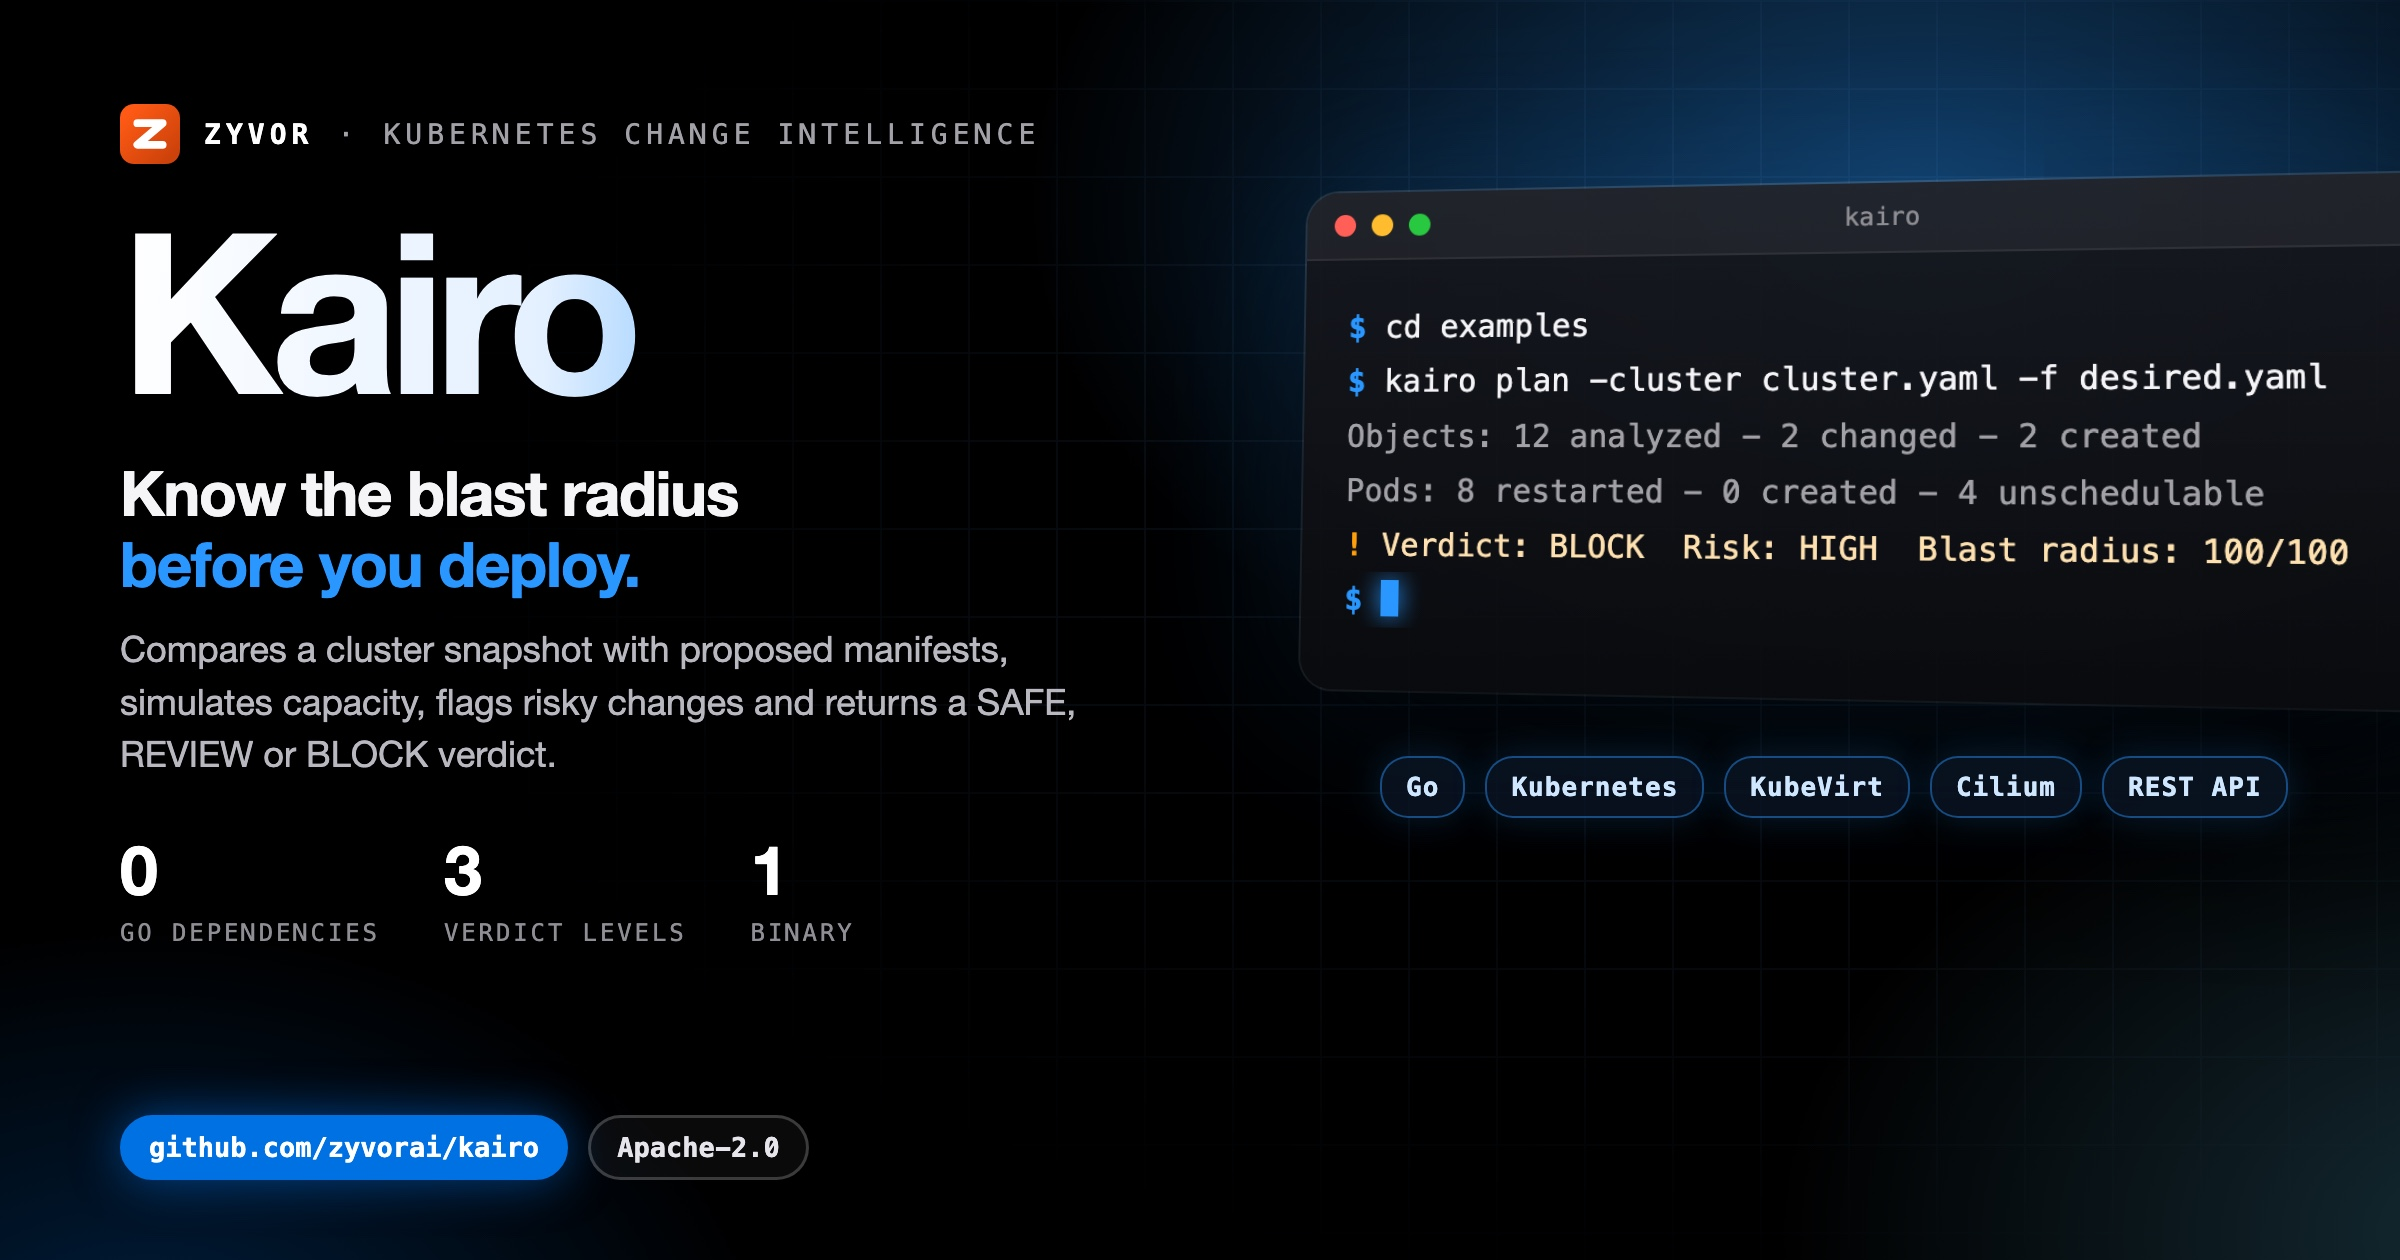
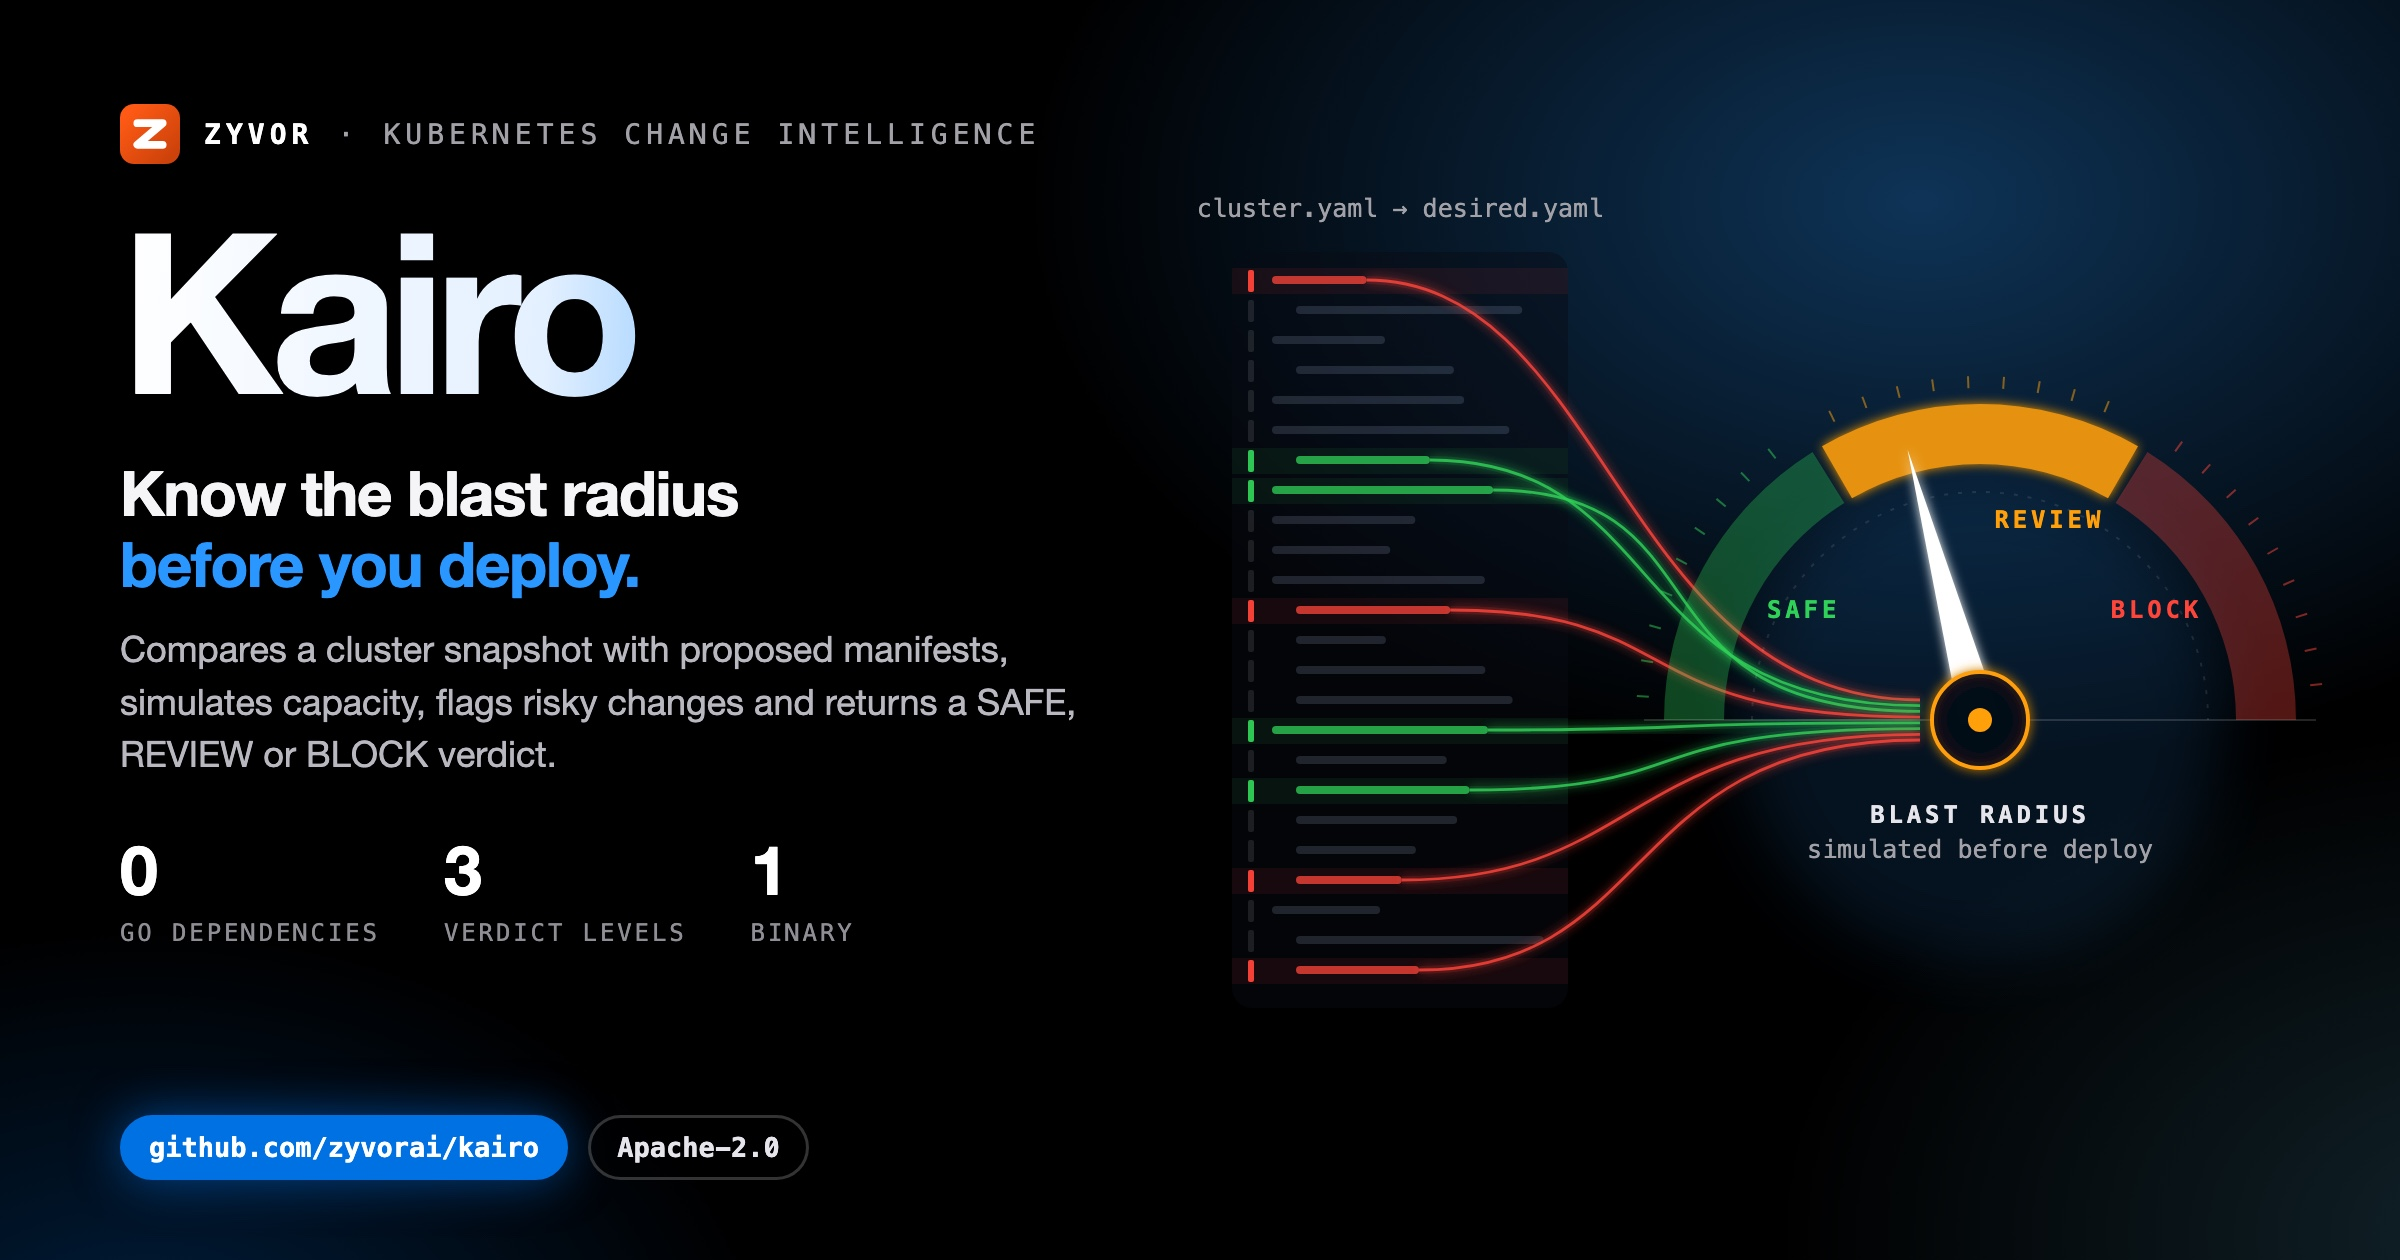
docs(social): unique illustrated hero card
Replace the shared terminal-window art with a motif drawn for this project;
same verified copy and stats on the left.

Changed region(s): [[0.5, 0.1238, 1.0, 0.8048]]

diff --git a/docs/social/kairo-hero-dark.html b/docs/social/kairo-hero-dark.html
@@ -8,58 +8,47 @@
   Build: ./docs/social/build-hero-dark.sh  ->  kairo-hero-dark.jpg (2400x1260)
 -->
 <style>
-  :root { --blue:#0071e3; --signal:#2997ff; --cyan:#64d2ff; --green:#30d158; --amber:#ff9f0a;
+  :root { --blue:#0071e3; --signal:#2997ff; --cyan:#64d2ff; --green:#30d158; --amber:#ff9f0a; --red:#ff453a; --violet:#bf5af2;
     --sans:'SF Pro Display','Helvetica Neue',Helvetica,Arial,sans-serif; --mono:'SF Mono',Menlo,Consolas,monospace; }
   * { box-sizing:border-box; }
   html,body { margin:0; padding:0; }
   body { width:1200px; height:630px; overflow:hidden; color:#f5f5f7; font-family:var(--sans); position:relative; background:#000; }
   .aurora { position:absolute; inset:0;
-    background:radial-gradient(720px 460px at 80% 16%, rgba(41,151,255,.40), transparent 62%),
-               radial-gradient(600px 420px at 104% 98%, rgba(100,210,255,.20), transparent 60%),
+    background:radial-gradient(720px 460px at 80% 16%, rgba(41,151,255,.34), transparent 62%),
+               radial-gradient(600px 420px at 104% 98%, rgba(100,210,255,.16), transparent 60%),
                radial-gradient(520px 380px at 6% 110%, rgba(0,113,227,.28), transparent 60%); }
-  .grid { position:absolute; inset:0; opacity:.09;
-    background-image:linear-gradient(rgba(120,180,255,.9) 1px,transparent 1px),linear-gradient(90deg,rgba(120,180,255,.9) 1px,transparent 1px);
-    background-size:44px 44px; -webkit-mask-image:radial-gradient(900px 520px at 72% 42%, #000 18%, transparent 75%); }
-  .left { position:absolute; left:60px; top:52px; width:560px; z-index:3; }
+  .copy { position:absolute; left:60px; top:52px; width:560px; z-index:3; }
   .brand { display:flex; align-items:center; gap:12px; font-family:var(--mono); font-size:14px; letter-spacing:.18em; text-transform:uppercase; color:#a1a1a6; }
   .brand b { color:#fff; }
   .word { margin:20px 0 0; font-size:112px; line-height:.95; font-weight:800; letter-spacing:-.05em; white-space:nowrap;
     background:linear-gradient(92deg,#fff 0%,#e3f0ff 38%,var(--signal) 74%,var(--cyan) 100%); -webkit-background-clip:text; background-clip:text; color:transparent; padding-bottom:6px; }
   .tag { margin:14px 0 0; font-size:31px; line-height:1.15; font-weight:700; letter-spacing:-.02em; }
   .tag em { font-style:normal; color:var(--signal); }
-  .lede { margin:12px 0 0; font-size:18px; line-height:1.45; color:#b8b8bf; width:520px; }
+  .lede { margin:12px 0 0; font-size:18px; line-height:1.45; color:#b8b8bf; width:520px; text-shadow:0 1px 12px #000; }
   .stats { margin-top:24px; display:flex; gap:32px; }
   .stat b { display:block; font-size:34px; font-weight:800; letter-spacing:-.03em; color:#fff; }
   .stat span { font-family:var(--mono); font-size:12px; letter-spacing:.12em; text-transform:uppercase; color:#8e8e93; }
   .pill { position:absolute; left:60px; bottom:40px; display:flex; gap:10px; z-index:3; }
-  .pill span { font-family:var(--mono); font-size:13.5px; font-weight:700; padding:7px 13px; border-radius:18px; border:1.5px solid rgba(255,255,255,.2); color:#e5e5ea; background:rgba(255,255,255,.04); }
+  .pill span { font-family:var(--mono); font-size:13.5px; font-weight:700; padding:7px 13px; border-radius:18px; border:1.5px solid rgba(255,255,255,.2); color:#e5e5ea; background:rgba(0,0,0,.6); }
   .pill span.b { background:var(--blue); border-color:var(--blue); color:#fff; box-shadow:0 0 24px rgba(0,113,227,.55); }
-
-  .right { position:absolute; left:652px; top:96px; width:560px; z-index:2; }
-  .win { position:relative; width:560px; border-radius:16px; overflow:hidden; z-index:2;
-    background:linear-gradient(180deg, rgba(22,24,30,.94), rgba(10,11,14,.96));
-    box-shadow:0 50px 100px rgba(0,0,0,.75), 0 0 0 1px rgba(255,255,255,.14), 0 0 90px rgba(41,151,255,.22);
-    transform:perspective(1600px) rotateY(-14deg) rotateX(4deg); transform-origin:left center; }
-  .bar { height:34px; display:flex; align-items:center; gap:8px; padding:0 14px; background:rgba(255,255,255,.05); border-bottom:1px solid rgba(255,255,255,.07); }
-  .bar i { width:11px; height:11px; border-radius:50%; background:#ff5f57; } .bar i:nth-child(2){background:#febc2e} .bar i:nth-child(3){background:#28c840}
-  .bar em { margin-left:auto; margin-right:auto; font-style:normal; font-family:var(--mono); font-size:12px; color:#8e8e93; transform:translateX(-24px); }
-  .term { min-height:214px; padding:20px 22px 24px; font-family:var(--mono); font-size:15.5px; line-height:1.75; }
-  .l { white-space:pre; overflow:hidden; text-overflow:ellipsis; color:#f5f5f7; }
-  .l .p { color:var(--signal); font-weight:700; }
-  .l.out { color:#a1a1a6; }
-  .l.cm { color:#6e6e73; }
-  .l.ok { color:#d1f7dc; } .l.ok span { color:var(--green); font-weight:700; }
-  .l.warn { color:#ffe1b0; } .l.warn span { color:var(--amber); font-weight:700; }
-  .cur { display:inline-block; width:9px; height:18px; background:var(--signal); vertical-align:-3px; box-shadow:0 0 12px var(--signal); }
-  .chips { margin:34px 0 0 38px; width:480px; display:flex; flex-wrap:wrap; gap:10px; position:relative; z-index:3; }
-  .chips span { font-family:var(--mono); font-size:13px; font-weight:700; letter-spacing:.04em; padding:7px 12px; border-radius:14px;
-    color:#cfe6ff; background:rgba(10,20,35,.82); border:1px solid rgba(41,151,255,.45); box-shadow:0 0 18px rgba(41,151,255,.18); }
+  .art { position:absolute; left:520px; top:0; width:680px; height:630px; z-index:2; }
+  .art svg { display:block; }
+  #labels { position:absolute; inset:0; z-index:4; pointer-events:none; }
+  .lbl { position:absolute; font-family:var(--mono); font-size:12.5px; color:#a1a1a6; text-align:center; transform:translate(-50%,-50%); white-space:nowrap; }
+  .lbl b { display:block; font-size:12px; letter-spacing:.16em; text-transform:uppercase; color:#e5e5ea; }
+  .lbl span { display:block; margin-top:3px; }
+  .lbl.box { padding:7px 12px; border-radius:12px; background:rgba(8,10,14,.85); border:1px solid rgba(255,255,255,.14); }
+  .lbl.chip { padding:6px 11px; border-radius:13px; font-size:12.5px; font-weight:700; color:#cfe6ff; background:rgba(10,20,35,.85); border:1px solid rgba(41,151,255,.5); box-shadow:0 0 16px rgba(41,151,255,.2); }
+  .lbl.left { transform:translate(0,-50%); text-align:left; }
+  .lbl.right { transform:translate(-100%,-50%); text-align:right; }
+  .ok { color:var(--green) !important; } .warn { color:var(--amber) !important; } .bad { color:var(--red) !important; } .sig { color:var(--signal) !important; } .cy { color:var(--cyan) !important; } .vi { color:var(--violet) !important; }
 </style>
 </head>
 <body>
 <div class="aurora"></div>
-<div class="grid"></div>
-<div class="left">
+<div class="art"><svg id="art" width="680" height="630" viewBox="0 0 680 630" xmlns="http://www.w3.org/2000/svg"></svg></div>
+<div id="labels"></div>
+<div class="copy">
   <div class="brand"><svg viewBox="0 0 64 64" width="30" height="30" aria-hidden="true"><defs><linearGradient id="zb" x1="8" y1="8" x2="56" y2="56" gradientUnits="userSpaceOnUse"><stop offset="0" stop-color="#ff5a15"/><stop offset="1" stop-color="#cc420a"/></linearGradient></defs><rect width="64" height="64" rx="15" fill="url(#zb)"/><path d="M18.5,20.5 45.5,20.5 18.5,43.5 45.5,43.5" fill="none" stroke="#fff" stroke-width="8.3" stroke-linecap="round" stroke-linejoin="round"/></svg><b>Zyvor</b><span>&middot;</span><span>Kubernetes change intelligence</span></div>
   <div class="word">Kairo</div>
   <div class="tag">Know the blast radius<br><em>before you deploy.</em></div>
@@ -67,8 +56,79 @@
   <div class="stats"><div class="stat"><b>0</b><span>Go dependencies</span></div><div class="stat"><b>3</b><span>verdict levels</span></div><div class="stat"><b>1</b><span>binary</span></div></div>
 </div>
 <div class="pill"><span class="b">github.com/zyvorai/kairo</span><span>Apache-2.0</span></div>
-<div class="right"><div class="win"><div class="bar"><i></i><i></i><i></i><em>kairo</em></div>
-<div class="term"><div class="l"><span class="p">$</span> cd examples</div><div class="l"><span class="p">$</span> kairo plan -cluster cluster.yaml -f desired.yaml</div><div class="l out">Objects: 12 analyzed - 2 changed - 2 created</div><div class="l out">Pods: 8 restarted - 0 created - 4 unschedulable</div><div class="l warn"><span>!</span> Verdict: BLOCK  Risk: HIGH  Blast radius: 100/100</div><div class="l"><span class="p">$</span> <i class="cur"></i></div></div></div>
-<div class="chips"><span>Go</span><span>Kubernetes</span><span>KubeVirt</span><span>Cilium</span><span>REST API</span></div></div>
+<script>
+var Z = (function () {
+  var NS = 'http://www.w3.org/2000/svg', svg = document.getElementById('art'), labels = document.getElementById('labels');
+  var seed = 20261004;
+  function rnd() { seed = (seed * 1103515245 + 12345) % 2147483648; return seed / 2147483648; }
+  function el(tag, a, parent) { var n = document.createElementNS(NS, tag); for (var k in a) n.setAttribute(k, a[k]); (parent || svg).appendChild(n); return n; }
+  function g(attrs) { return el('g', attrs || {}); }
+  function label(x, y, inner, cls, style) { var d = document.createElement('div'); d.className = 'lbl ' + (cls || ''); d.style.left = (520 + x) + 'px'; d.style.top = y + 'px'; if (style) d.setAttribute('style', d.getAttribute('style') + ';' + style); d.innerHTML = inner; labels.appendChild(d); return d; }
+  return { NS: NS, svg: svg, W: 680, H: 630, rnd: rnd, el: el, g: g, label: label,
+    reseed: function (s) { seed = s; },
+    c: { blue: '#0071e3', signal: '#2997ff', cyan: '#64d2ff', green: '#30d158', amber: '#ff9f0a', red: '#ff453a', violet: '#bf5af2', teal: '#40c8e0', indigo: '#5e5ce6', pink: '#ff375f', white: '#f5f5f7', grey: '#8e8e93' } };
+})();
+(function () {
+// Kairo: a diff gutter of +/- lines whose changed strands flow into a three-sector SAFE / REVIEW / BLOCK verdict dial.
+var C = Z.c, hx = 470, hy = 360, DR = 158, D2R = Math.PI / 180;
+var defs = Z.el('defs', {});
+defs.innerHTML = '<filter id="kagl" x="-50%" y="-50%" width="200%" height="200%"><feGaussianBlur stdDeviation="2.6" result="b"/><feMerge><feMergeNode in="b"/><feMergeNode in="SourceGraphic"/></feMerge></filter>' +
+  '<filter id="kasf" x="-50%" y="-50%" width="200%" height="200%"><feGaussianBlur stdDeviation="16"/></filter>';
+function pt(r, a) { return [hx + r * Math.cos(a * D2R), hy + r * Math.sin(a * D2R)]; }
+function sector(r0, r1, a0, a1) {
+  var p0 = pt(r1, a0), p1 = pt(r1, a1), p2 = pt(r0, a1), p3 = pt(r0, a0);
+  return 'M' + p0 + ' A' + r1 + ',' + r1 + ' 0 0 1 ' + p1 + ' L' + p2 + ' A' + r0 + ',' + r0 + ' 0 0 0 ' + p3 + 'Z';
+}
+// diff gutter
+var gx = 104, gy = 140, lh = 15, n = 24, kinds = [];
+for (var i = 0; i < n; i++) {
+  var v = Z.rnd(), k = v < 0.2 ? '+' : v < 0.32 ? '-' : ' ';
+  if (i === 6 || i === 7 || i === 15) k = '+';
+  if (i === 11) k = '-';
+  kinds.push(k);
+}
+Z.el('rect', { x: gx - 8, y: gy - 14, width: 168, height: n * lh + 18, rx: 10, fill: 'rgba(8,12,20,.45)' });
+var strands = [];
+kinds.forEach(function (k, i) {
+  var y = gy + i * lh, len = 40 + Z.rnd() * 90, ind = (Z.rnd() < 0.5 ? 0 : 1) * 12;
+  var col = k === '+' ? C.green : k === '-' ? C.red : 'rgba(160,180,210,1)';
+  if (k !== ' ') Z.el('rect', { x: gx - 8, y: y - 6, width: 168, height: 13, fill: col, opacity: .08 });
+  Z.el('rect', { x: gx, y: y - 5, width: 3, height: 11, rx: 1, fill: k === ' ' ? 'rgba(255,255,255,.1)' : col, opacity: k === ' ' ? 1 : .95 });
+  Z.el('rect', { x: gx + 12 + ind, y: y - 2, width: len, height: 4, rx: 2, fill: col, opacity: k === ' ' ? .18 : .75 });
+  if (k !== ' ') strands.push([gx + 12 + ind + len, y, col]);
+});
+// ribbon strands flowing into the hub
+Z.el('circle', { cx: hx, cy: hy, r: 120, fill: C.signal, opacity: .12, filter: 'url(#kasf)' });
+strands.forEach(function (s, i) {
+  var ty = hy - 10 + i * (20 / Math.max(1, strands.length - 1));
+  var d = 'M' + s[0] + ',' + s[1] + ' C' + (s[0] + 120) + ',' + s[1] + ' ' + (hx - 180) + ',' + ty + ' ' + (hx - 30) + ',' + ty;
+  Z.el('path', { d: d, fill: 'none', stroke: s[2], 'stroke-width': 4, opacity: .12 });
+  Z.el('path', { d: d, fill: 'none', stroke: s[2], 'stroke-width': 1.4, opacity: .85, filter: 'url(#kagl)' });
+});
+// verdict dial: upper semicircle, three sectors
+var secs = [[180, 238, C.green, 'SAFE'], [240, 300, C.amber, 'REVIEW'], [302, 360, C.red, 'BLOCK']];
+secs.forEach(function (s) {
+  Z.el('path', { d: sector(DR - 30, DR, s[0], s[1]), fill: s[2], opacity: s[3] === 'REVIEW' ? .9 : .32, filter: s[3] === 'REVIEW' ? 'url(#kagl)' : 'none' });
+  for (var a = s[0] + 4; a < s[1] - 2; a += 6) {
+    var p = pt(DR + 8, a), q = pt(DR + 14, a);
+    Z.el('line', { x1: p[0], y1: p[1], x2: q[0], y2: q[1], stroke: s[2], opacity: .5 });
+  }
+});
+Z.el('path', { d: 'M' + pt(DR - 44, 180) + ' A' + (DR - 44) + ',' + (DR - 44) + ' 0 0 1 ' + pt(DR - 44, 360), fill: 'none', stroke: 'rgba(255,255,255,.1)', 'stroke-dasharray': '2 5' });
+Z.el('line', { x1: hx - DR - 10, y1: hy, x2: hx + DR + 10, y2: hy, stroke: 'rgba(255,255,255,.14)' });
+// needle on REVIEW
+var na = 255, tip = pt(DR - 18, na), bl = pt(10, na - 90), br = pt(10, na + 90);
+Z.el('path', { d: 'M' + bl + ' L' + tip + ' L' + br + 'Z', fill: '#fff', filter: 'url(#kagl)' });
+Z.el('circle', { cx: hx, cy: hy, r: 24, fill: 'rgba(6,10,18,.95)', stroke: C.amber, 'stroke-width': 2, filter: 'url(#kagl)' });
+Z.el('circle', { cx: hx, cy: hy, r: 6, fill: C.amber });
+var lp = function (a) { return pt(DR - 54, a); };
+var l1 = lp(212), l2 = lp(286), l3 = lp(328);
+Z.label(l1[0], l1[1], '<b class="ok">SAFE</b>');
+Z.label(l2[0] + 6, l2[1], '<b class="warn">REVIEW</b>');
+Z.label(l3[0], l3[1], '<b class="bad">BLOCK</b>');
+Z.label(hx, hy + 56, '<b>blast radius</b><span>simulated before deploy</span>');
+Z.label(gx + 76, gy - 36, '<span style="margin:0">cluster.yaml &rarr; desired.yaml</span>');
+})();
+</script>
 </body>
 </html>
